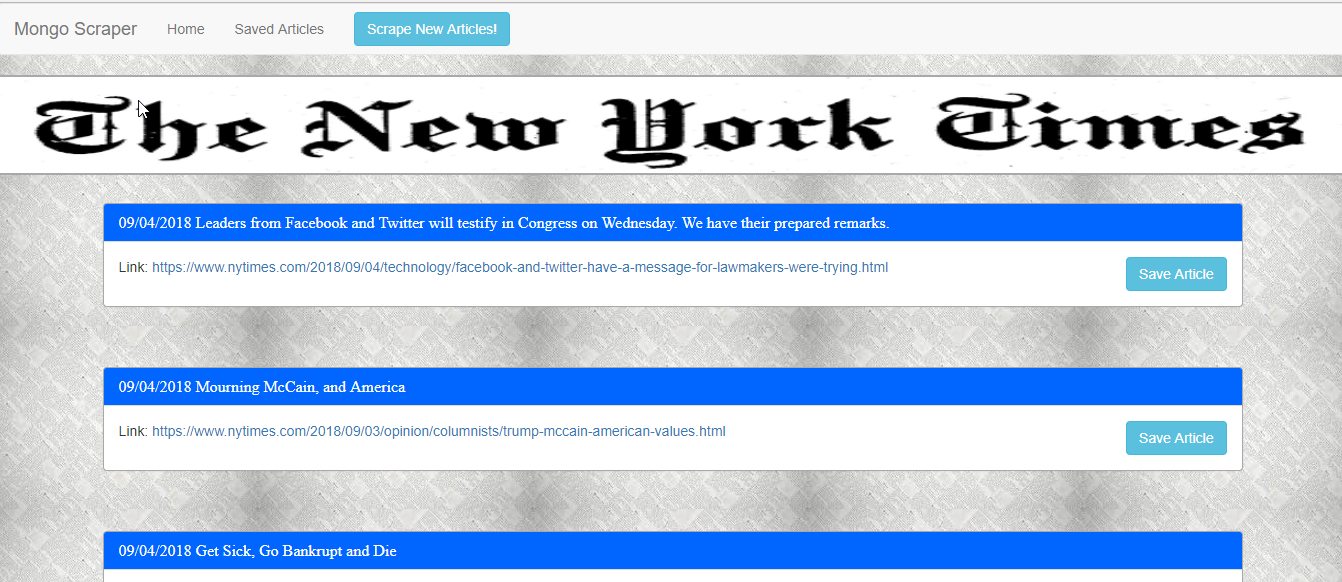
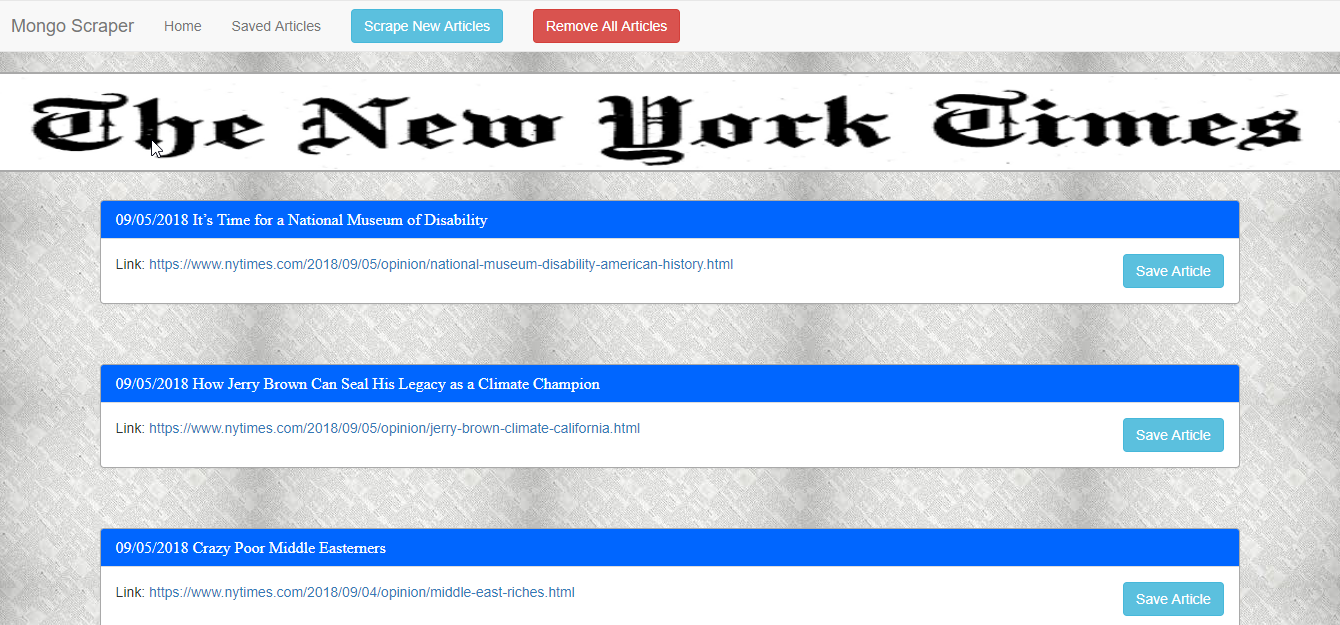
add article title to comment modal, modify Readme

diff --git a/public/assets/js/app.js b/public/assets/js/app.js
@@ -26,6 +26,7 @@ $(document).ready(function () {
         });
     });
 
+    // route to remove all articles & associated comments from the collection
     $(".remove-articles").click(function (event) {
         event.preventDefault();
         $.get("/remove").then(function (data) {
@@ -73,10 +74,10 @@ $(document).ready(function () {
     $(".saved-buttons").on("click", function () {
         event.preventDefault();
         var currentId = $(this).attr("data-value");
+        var currentTitle = $(this).attr("data-title");
 
-        var tempTitle = $(this).closest(".panel-title").text();
-        console.log("current id = ", currentId);
-        console.log("closest title = ", tempTitle);
+        // console.log("current article id = ", currentId);
+        // console.log("current artitle title = ", currentTitle);
 
         $("#saveButton").attr({ "data-value": currentId });
 
@@ -87,9 +88,12 @@ $(document).ready(function () {
             $("#notesBody").empty();
             $("#notestext").val("");
             $("#article-for-note").empty();
+            $("bold-title").empty();
 
             $("#article-for-note").append(" " + currentId);
             $("noteModalLabel").append(" " + currentId);
+            $("#bold-title").text(currentTitle);
+
             // add all notes to the body of of the modal
             for (var i = 0; i < data.note.length; i++) {
                 var button = '<a href=/deleteNote/' + data.note[i]._id +

diff --git a/config/routes.js b/config/routes.js
@@ -136,9 +136,9 @@ module.exports = function (router) {
     // to the corresponding article's notes array
     router.post("/notes/:id", function (req, res) {
         var newNote = new Note(req.body);
-        console.log("newnote = ", newNote);
-        console.log("newNote id = ", newNote._id);
-        console.log("article id = ", req.params.id);
+        // console.log("newnote = ", newNote);
+        // console.log("newNote id = ", newNote._id);
+        // console.log("article id = ", req.params.id);
         newNote.save(function (err, doc) {
             Article.findOneAndUpdate(
                 { _id: req.params.id },
@@ -148,6 +148,7 @@ module.exports = function (router) {
                     if (err2) {
                         console.log(" Error updating article with note id: ", err);
                     }
+                    //console.log("Doc when adding a note", doc2);
                     res.send(doc2);
                 });
         });

diff --git a/controllers/articles.js b/controllers/articles.js
@@ -13,7 +13,8 @@ module.exports = {
                 articlesArr[i].note = [];
             }
 
-            // insert new articles - ordered: false - to prevent duplicated
+            // insert new articles - no duplicate titles 
+            // ordered: false - continue inserting when duplicates are encountered
             Article.collection.insertMany(articlesArr, { ordered: false }, function (err, docs) {
                 callback(err, docs);
             });

diff --git a/server.js b/server.js
@@ -32,7 +32,7 @@ app.use(express.static(__dirname + "/public"));
 app.use(router);
 
 // If deployed, use the deployed database.  Otherwise use the local mongoHeadlines database
-var MONGODB_URI = process.env.MONGODB_URI || "mongodb://localhost/mongoHeadlines8";
+var MONGODB_URI = process.env.MONGODB_URI || "mongodb://localhost/mongoHeadlines2";
 
 // Connect mongoose to the Mongo database
 mongoose.Promise = Promise;

diff --git a/public/assets/css/style.css b/public/assets/css/style.css
@@ -9,6 +9,11 @@ h1, h2, h3, h4 {
 	color: rgb(0, 102, 255);
 }
 
+h5 {
+	font-family: 'Cormorant SC', serif;
+	color:darkgray;
+}
+
 
 .panel-default>.panel-heading {
   background-color: rgb(0, 102, 255);

diff --git a/README.md b/README.md
@@ -29,15 +29,15 @@ https://rmxjohnson.github.io/MongoNewsScraper/
 
 ## Home Page
 
-![home.png](public/assets/img/home-page2.png)
+![home.png](public/assets/img/home-page.png)
 
 ## "Saved" Articles Page
 
-![saved.png](public/assets/img/saved-page2.png)
+![saved.png](public/assets/img/saved-page.png)
 
 ## "Comment" modal associated with a saved article
 
-![notes.png](public/assets/img/notes-modal2.png)
+![notes.png](public/assets/img/comment-modal.png)
 
 
 
